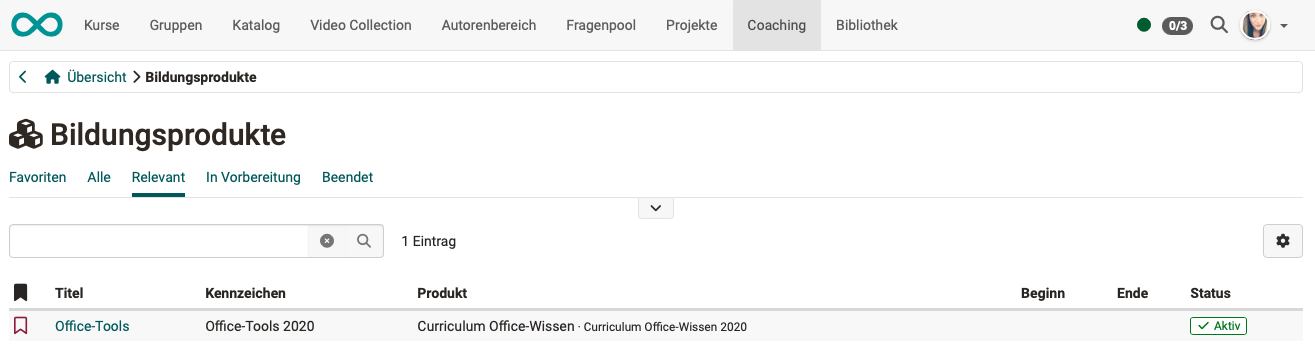
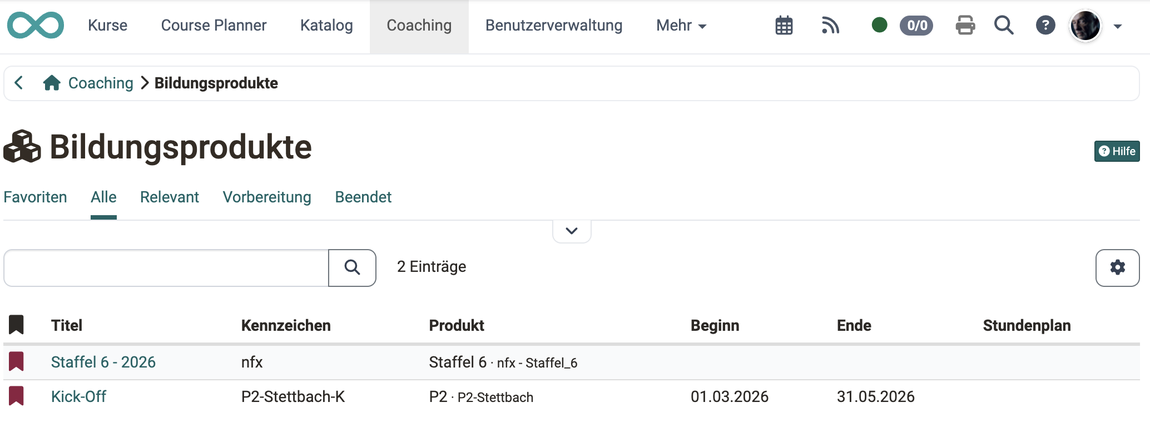
OODOC-542 (DE), Filter und Spalten der Bildungsprodukt-Listen erklärt und die Einstiege im Modul Course Planner dokumentiert.

diff --git a/sites/manual_user/docs/area_modules/Coaching_Educational_Products.de.md b/sites/manual_user/docs/area_modules/Coaching_Educational_Products.de.md
@@ -40,9 +40,46 @@ Welche Bedingungen den Zugang zum Coaching Tool insgesamt steuern, zeigt der Abs
 
 Die Liste zeigt Ihre Durchführungen. Die Spalte "Produkt" nennt zu jeder Durchführung das Bildungsprodukt, zu dem sie gehört. Wählen Sie im ersten Schritt eine Durchführung aus.
 
-![Je Zeile eine Durchführung mit Kennzeichen, zugehörigem Produkt, Beginn, Ende und Status, in der Liste Bildungsprodukte des Coaching Tools.](assets/coaching_educational_products2_v1_de.png){ class="shadow lightbox" }
+![Fünf Filter-Tabs über der Liste, je Zeile eine Durchführung mit Kennzeichen, Produkt, Beginn und Ende, in den Bildungsprodukten des Coaching Tools.](assets/coaching_educational_products2_v1_de.png){ class="shadow lightbox" }
 
-Die Filter-Tabs "Favoriten", "Alle", "Relevant", "In Vorbereitung" und "Beendet" schränken die Liste ein. Weitere Informationen zum allgemeinen Umgang mit Filtern und Filter-Tabs finden Sie unter [Mit Tabellen arbeiten](../basic_concepts/Table_Concept.de.md).
+Als Betreuer:in oder Kursbesitzer:in begegnet Ihnen dieselbe Liste an einer zweiten Stelle: unter `Coaching > Personen > "Person" > Bildungsprodukte` sehen Sie die Durchführungen einer einzelnen Person. Sie arbeitet mit derselben Filterlogik, bietet aber weniger Filter und Spalten.
+
+Dieselbe Liste erscheint ausserdem für andere Rollen, unter `Kurse > Bildungsprodukte` für Teilnehmende und unter `Benutzerverwaltung > "Person" > Bildungsprodukte` für Benutzerverwalter:innen und Administrator:innen. Die Liste arbeitet dort gleich, Filter und Spalten sind je Bereich anders gesetzt.
+
+
+### Die Liste filtern [:octicons-tag-16:{ title="ab Release 21.0 (OO-9374)" }](https://track.frentix.com/issue/OO-9374){:target="_blank"} {: #filter}
+
+Sie finden die Filter-Tabs über der Liste unter:<br>
+`Coaching > Bildungsprodukte`
+
+Jeder Tab zeigt die Durchführungen in einem bestimmten Status:
+
+* **Favoriten**<br>Nur die Durchführungen, die Sie selbst mit der Flagge markiert haben, unabhängig vom Status. Sobald mindestens eine Markierung besteht, ist dieser Tab beim Öffnen vorausgewählt.
+* **Alle**<br>Alle Durchführungen ohne Einschränkung, auch die beendeten und die abgebrochenen. Nützlich, wenn Sie eine Durchführung suchen und ihren Status nicht kennen.
+* **Relevant**<br>Die Durchführungen mit dem Status "Provisorisch", "Bestätigt" oder "Aktiv". Das ist alles, was läuft oder verbindlich geplant ist, und damit die Ansicht für den Alltag. Haben Sie keine Favoriten markiert, ist dieser Tab vorausgewählt.
+* **Vorbereitung**<br>Durchführungen, die noch nicht freigegeben sind. Diesen Tab sehen nur Betreuer:innen und Kursbesitzer:innen. Teilnehmende sehen Durchführungen in Vorbereitung nicht.
+* **Beendet**<br>Die Durchführungen mit dem Status "Beendet" und die mit dem Status "Abgebrochen", gemeinsam in einem Tab. Eine abgebrochene Durchführung verschwindet also nicht, sie wandert hierher.
+
+![Zuordnung der fünf Filter-Tabs zu den sechs Status einer Durchführung, der Tab Beendet umfasst auch abgebrochene Durchführungen.](assets/coaching_educational_products_filter_status_v1_de.svg){ class="shadow lightbox" }
+
+Mit dem Menü "Filter" grenzen Sie zusätzlich nach Produkt, Status und Durchführungszeitraum ein. Das Suchfeld über der Liste durchsucht Titel und Kennzeichen. Wie Sie Filter kombinieren und eigene Filter speichern, zeigt [Mit Tabellen arbeiten](../basic_concepts/Table_Concept.de.md).
+
+### Die Spalten der Liste [:octicons-tag-16:{ title="ab Release 21.0 (OO-9374)" }](https://track.frentix.com/issue/OO-9374){:target="_blank"} {: #columns}
+
+Welche Spalten die Liste zeigt, bestimmen Sie über das Zahnrad-Icon rechts über der Liste. Ihre Auswahl bleibt für Ihr Konto gespeichert.
+
+![Nur die Spalten ID und Status sind nicht angekreuzt, im geöffneten Dialog Spalten auswählen in den Bildungsprodukten des Coaching Tools.](assets/coaching_educational_products_columns_v1_de.png){ class="shadow lightbox" }
+
+* **Favorit**<br>Die Flagge, mit der Sie eine Durchführung markieren. Markierte Durchführungen erreichen Sie über den Tab "Favoriten".
+* **ID**<br>Die Nummer, unter der OpenOlat die Durchführung führt. Nützlich für Rückfragen an den Support. Diese Spalte ist zu Beginn ausgeblendet.
+* **Titel**<br>Der Name der Durchführung. Ein Klick darauf öffnet ihre Struktur.
+* **Kennzeichen**<br>Die Referenz aus Ihrer eigenen Systematik, zum Beispiel eine Kursnummer. Kursplaner:innen vergeben sie beim Anlegen der Durchführung.
+* **Produkt**<br>Das Bildungsprodukt, zu dem die Durchführung gehört, mit seinem Kennzeichen.
+* **Beginn** und **Ende**<br>Der geplante Zeitraum der Durchführung.
+* **Status**<br>Der Status der Durchführung, also "Vorbereitung", "Provisorisch", "Bestätigt", "Aktiv", "Abgebrochen" oder "Beendet". Diese Spalte ist zu Beginn ausgeblendet.
+* **Stundenplan**<br>Der Zugang zu den Terminen der Durchführung.
+
+In den anderen Bereichen weicht die Spaltenwahl ab. Die Benutzerverwaltung zeigt zusätzlich die Spalte "Rollen", "Meine Kurse" und die Personenansicht im Coaching Tool zeigen den Lernfortschritt.
 
 [Zum Seitenanfang ^](#educational_products)
 
@@ -52,11 +89,29 @@ Die Filter-Tabs "Favoriten", "Alle", "Relevant", "In Vorbereitung" und "Beendet"
 
 Durch Klick auf einen Namen öffnen Sie die Baumstruktur dieser Durchführung.
 
-![Button Mehr erfahren im Kopfbereich, darunter die Baumstruktur mit Elementen und Kursen, je Kurs die Links Infoseite und starten, in der geöffneten Durchführung Office-Tools.](assets/coaching_educational_products3_v1_de.png){ class="shadow lightbox" }
+![Baumstruktur der enthaltenen Kurse mit den Spalten Infoseite und Öffnen, darüber der Button Mehr erfahren, in einer geöffneten Durchführung.](assets/coaching_educational_products3_v1_de.png){ class="shadow lightbox" }
 
 Sie können nun durch Klick auf eines der Elemente im Produkt dieses **direkt öffnen** und von dort weiter navigieren. Der Link "Öffnen" startet den Kurs, der Link "Infoseite" zeigt die [Infoseite des Kurses](../learningresources/Info_page.de.md).
 
 Mit dem **Button "Mehr erfahren"** gelangen Sie zur Infoseite der Durchführung. Sie zeigt die Beschreibung, die enthaltenen Kurse und die Termine.
+
+### Die Struktur filtern [:octicons-tag-16:{ title="ab Release 21.0 (OO-9374)" }](https://track.frentix.com/issue/OO-9374){:target="_blank"} {: #structure_filter}
+
+Öffnen Sie eine Durchführung mit einem Klick auf ihren Titel:<br>
+`Coaching > Bildungsprodukte > "Titel der Durchführung"`
+
+Die Struktur zeigt die Gliederung der Durchführung, zum Beispiel Semester und Module. Hängt an einer Zeile ein Kurs, nennt ihn die Spalte "Titel der Lernressource". Auch hier stehen Filter-Tabs über der Liste: "Alle", "Aktiv", "In Vorbereitung" und "Beendet".
+
+Zwei der Tabs heissen fast gleich, beantworten aber verschiedene Fragen:
+
+* **"Vorbereitung" in der Liste der Durchführungen**<br>Was kommt auf mich zu? Sie sehen die Durchführungen, die noch nicht laufen, und können sie vorbereiten, bevor Teilnehmende dazukommen.
+* **"In Vorbereitung" in der Struktur**<br>Ist diese Durchführung startbereit? Sie sehen, welche Teile noch nicht freigegeben sind. Was hier erscheint, sehen Teilnehmende noch nicht.
+
+![Zwei Filterleisten untereinander, je mit Menüpfad: oben die Tabs der Durchführungsliste mit Vorbereitung, unten die Tabs der Struktur mit In Vorbereitung.](assets/coaching_educational_products_filter_levels_v1_de.png){ class="shadow lightbox" }
+
+Das Bild zeigt nur die beiden Filterleisten. Die vollständigen Ansichten finden Sie weiter oben: die Durchführungsliste im Abschnitt [Was zeigt die Liste?](#list), die geöffnete Durchführung im Abschnitt [Die Struktur einer Durchführung](#structure).
+
+Wo ein Teil im Tab "In Vorbereitung" landet, hängt davon ab, was in der Zeile steht: Bei einer Zeile mit Kurs zählt der Status, den die Kursbesitzer:innen im Kurs setzen. Bei einer Zeile ohne Kurs zählt der Status des Gliederungselements aus dem Course Planner. Ein Modul kann deshalb im Tab "Aktiv" stehen, während der Kurs darin noch im Tab "In Vorbereitung" erscheint.
 
 [Zum Seitenanfang ^](#educational_products)
 

diff --git a/sites/manual_user/docs/area_modules/Courses.de.md b/sites/manual_user/docs/area_modules/Courses.de.md
@@ -46,11 +46,17 @@ Sobald Sie den Kurs gefunden haben, können Sie ihn auch als Favorit markieren. 
 
 ## Bildungsprodukte
 
-Der Bereich "Bildungsprodukte" wird angezeigt, wenn der [Course Planner](../area_modules/Course_Planner.de.md) in der System-Administration aktiviert ist: `Administration > Module > Course Planner`.
+Der Bereich "Bildungsprodukte" erscheint, wenn drei Bedingungen erfüllt sind:
 
-Unter Bildungsprodukte werden dann den Benutzer:innen die Kurse und Lernressourcen angezeigt, die zu ihren Bildungsgängen (Durchführungen) gehören. Hat sich eine Benutzer:in z.B. in einen Bildungsgang eingeschrieben, der mit dem Course Planner organisiert wird, erscheinen hier alle Kurse, die diesem Bildungsgang zugeordnet sind. Ist die Benutzer:in in mehreren Durchführungen eingeschrieben, sieht sie unter Bildungsprodukte alle zugehörigen Kurse.
+* Administrator:innen haben den [Course Planner](../area_modules/Course_Planner.de.md) aktiviert: `Administration > Module > Course Planner`.
+* In diesem Modul ist die Einstellung [Produkt in "Meine Kurse"](../../manual_admin/administration/Modules_Course_Planner.de.md#product_in_my_courses) eingeschaltet.
+* Sie sind in mindestens einer Durchführung eingetragen.
 
-Ferner können hier auch nur die Favoriten, die aktiven oder die beendeten Kurse der Durchführungen angezeigt werden, oder es kann gezielt nach Kursen gesucht werden. Unter Bildungsprodukte gelangen Lernende also schnell und fokussiert zu den für ihren Bildungsgang/ihr Modul/ihre Durchführung relevanten Kursen und Lernressourcen.
+Die Liste zeigt Ihre Durchführungen, nicht einzelne Kurse. Ein Klick auf den Titel einer Durchführung öffnet deren Struktur, und erst dort sehen Sie die Kurse und Lernressourcen, die zu ihr gehören. Sind Sie in mehreren Durchführungen eingetragen, stehen sie alle in dieser Liste. Die Spalte "Produkt" nennt zu jeder Durchführung das Bildungsprodukt, zu dem sie gehört, die Spalte "Fortschritt" Ihren Lernfortschritt darin. [:octicons-tag-16:{ title="ab Release 21.0 (OO-9374)" }](https://track.frentix.com/issue/OO-9374){:target="_blank"}
+
+Die Filter-Tabs "Favoriten", "Alle", "Relevant" und "Beendet" schränken die Liste ein, das Suchfeld darüber durchsucht Titel und Kennzeichen. Was die einzelnen Tabs zeigen und welche Spalten zur Verfügung stehen, beschreibt der Abschnitt [Die Liste filtern](../area_modules/Coaching_Educational_Products.de.md#filter). Er gilt für alle Bereiche, die Bildungsprodukte auflisten.
+
+Einen Filter-Tab "Vorbereitung" gibt es hier nicht. Lernressourcen, die noch nicht veröffentlicht sind, finden Sie stattdessen im Bereich "In Vorbereitung".
 
 ## In Vorbereitung
 
@@ -67,7 +73,9 @@ Für Betreuer:innen und Kursbesitzer:innen ist der Kurs auch im Status "Vorberei
 
 [Modul Zeitabschnitte >](../../manual_admin/administration/Modules_Time_Period.de.md)<br>
 [Mit Tabellen arbeiten >](../basic_concepts/Table_Concept.de.md)<br>
-[Course Planner >](../area_modules/Course_Planner.de.md)
+[Course Planner >](../area_modules/Course_Planner.de.md)<br>
+[Modul Course Planner >](../../manual_admin/administration/Modules_Course_Planner.de.md)<br>
+[Coaching: Bildungsprodukte >](../area_modules/Coaching_Educational_Products.de.md)
 
 **youtube**<br>
 [Wo finde ich meine Kurse?](<https://www.youtube.com/embed/2sN32vLD9UY>)

diff --git a/sites/manual_user/docs/area_modules/Coaching_People.de.md b/sites/manual_user/docs/area_modules/Coaching_People.de.md
@@ -183,6 +183,15 @@ Möchten Sie als Linienvorgesetzte:r oder Ausbildungsverantwortliche:r bestimmte
 
 ![Rechte der Rolle Linienvorgesetzte:r als Checkbox-Liste, von Kurse und Produkte anzeigen bis Administrative Eigenschaften anzeigen, im Tab Linienvorgesetzte:r einer Organisationseinheit.](assets/coaching_people_line_manager5_v1_de.png){ class="shadow lightbox" }
 
+### Die Bildungsprodukte einer Person [:octicons-tag-16:{ title="ab Release 21.0 (OO-9374)" }](https://track.frentix.com/issue/OO-9374){:target="_blank"} {: #linemanager_educationmanager_products}
+
+Öffnen Sie eine Person und wechseln Sie zu "Bildungsprodukte". Die Liste zeigt die Durchführungen dieser Person. Sie folgt derselben Logik wie die Liste unter [Coaching > Bildungsprodukte](../area_modules/Coaching_Educational_Products.de.md#filter), bietet aber weniger Filter und Spalten:
+
+* Als Filter-Tabs stehen "Alle", "Relevant" und "Beendet" zur Verfügung. "Relevant" ist vorausgewählt.
+* Die Tabs "Favoriten" und "Vorbereitung" gibt es hier nicht. Durchführungen in Vorbereitung sehen nur Betreuer:innen und Kursbesitzer:innen.
+* Eine Spalte "Status" gibt es nicht. Abgebrochene Durchführungen erscheinen im Tab "Beendet", lassen sich dort aber nicht einzeln herausfiltern.
+* Die Spalten "Fortschritt" und "Stundenplan" erscheinen nur, wenn Administrator:innen Ihrer Rolle die entsprechenden Rechte erteilt haben.
+
 [Zum Seitenanfang ^](#people)
 
 ---
@@ -195,11 +204,11 @@ Möchten Sie als Linienvorgesetzte:r oder Ausbildungsverantwortliche:r bestimmte
 [Modul Organisationen >](../../manual_admin/administration/Modules_Organisations.de.md)<br>
 [Eigene Rollen und Beziehungen definieren >](../../manual_user/basic_concepts/Assign_Roles.de.md)<br>
 [Coaching: Kurse >](../../manual_user/area_modules/Coaching_Courses.de.md)<br>
-[Course Planner: Durchführungen >](../../manual_user/area_modules/Course_Planner_Implementations.de.md)
+[Course Planner: Durchführungen >](../../manual_user/area_modules/Course_Planner_Implementations.de.md)<br>
+[Coaching: Bildungsprodukte >](../area_modules/Coaching_Educational_Products.de.md)
 
 **Weiterführend**<br>
 [Coaching: Personensuche >](../../manual_user/area_modules/Coaching_User_Search.de.md)<br>
-[Coaching: Bildungsprodukte >](../area_modules/Coaching_Educational_Products.de.md)<br>
 [Coaching: Termine / Absenzen >](../area_modules/Coaching_Events_Absences.de.md)<br>
 [Coaching: Bewertungsaufträge >](../area_modules/Coaching_Assessment_Orders.de.md)<br>
 [Coaching: Reports >](../../manual_user/area_modules/Coaching_Reports.de.md)<br>

diff --git a/sites/manual_admin/docs/administration/Modules_Course_Planner.de.md b/sites/manual_admin/docs/administration/Modules_Course_Planner.de.md
@@ -11,7 +11,19 @@ Das Modul Course Planner ist optional an Stelle des Moduls Curriculum in OpenOla
 
 ### Tab Course Planner {: #tab_course_planner}
 
-![Schalter zum Einschalten des Course Planners, Produkt in «Meine Kurse» und Optionsbaum «Benutzer:innen-Übersicht», im Tab Course Planner der System-Administration](assets/modules_course_planner_config_v1_de.png){ class="shadow lightbox" }
+![Schalter zum Einschalten des Course Planners, Produkt in "Meine Kurse" und Optionsbaum Benutzer:innen-Übersicht, im Tab Course Planner der System-Administration](assets/modules_course_planner_config_v1_de.png){ class="shadow lightbox" }
+
+Zwei Schalter in diesem Tab bestimmen, wo Produkte und Durchführungen erscheinen: «Produkt in "Meine Kurse"» und die «Benutzer:innen-Übersicht». Fünf Einstiege öffnen dieselbe Liste:
+
+* `Kurse > Bildungsprodukte` für Teilnehmer:innen
+* `Coaching > Bildungsprodukte` für Betreuer:innen und Kursbesitzer:innen
+* `Coaching > Personen > "Person" > Bildungsprodukte` für Betreuer:innen und Kursbesitzer:innen
+* `Coaching > Personen > "Person" > Bildungsprodukte` für Linienvorgesetzte und Ausbildungsverantwortliche
+* `Benutzerverwaltung > "Person" > Bildungsprodukte` für Benutzerverwalter:innen und Administrator:innen
+
+Der Schalter «Produkt in "Meine Kurse"» schaltet den ersten Einstieg ein oder aus. Die «Benutzer:innen-Übersicht» bestimmt, was Kursplaner:innen, Ausbildungsverantwortliche und Linienvorgesetzte im vierten Einstieg sehen.
+
+![Fünf Einstiege führen auf dieselbe Liste der Durchführungen, von dort öffnet ein Klick auf den Titel die Struktur mit den enthaltenen Kursen.](assets/modules_course_planner_entry_points_v1_de.svg){ class="shadow lightbox" }
 
 #### Course Planner einschalten {: #enable_course_planner }
 

diff --git a/sites/manual_admin/docs/usermanagement/Configure_User.de.md b/sites/manual_admin/docs/usermanagement/Configure_User.de.md
@@ -204,11 +204,13 @@ Hier können dem/der Benutzer:in Kompetenzbereiche hinzugefügt werden. Sie sind
 
 ### Bildungsprodukte [:octicons-tag-16:{ title="ab Release 20.3.0 (OO-9288)" }](https://track.frentix.com/issue/OO-9288)
 
-Hier finden Sie dieselbe hierarchische Übersicht über die Bildungsprodukte, Durchführungen und Kurse des/der Benutzer:in wie im Coaching-Tool aus Sicht Linienvorgesetzte:r bzw. Ausbildungsverantwortliche:r.
+Hier finden Sie die Durchführungen des/der Benutzer:in. Die Liste zeigt alle Durchführungen der Person, unabhängig davon, welche Rolle sie darin hat [:octicons-tag-16:{ title="ab Release 21.0 (OO-9374)" }](https://track.frentix.com/issue/OO-9374){:target="_blank"}.
 
-!!! note "Kontrollaufgaben als Linienvorgesetzte / Ausbildungsverantwortliche"
-    Details zu Filtern, Status und Darstellung dieser Ansicht.<br>
-    [Kontrollaufgaben als Linienvorgesetzte / Ausbildungsverantwortliche](../../manual_user/area_modules/Coaching_People.de.md#linemanager_educationmanager_observe)
+Die Liste folgt derselben Filterlogik wie im Coaching Tool, unterscheidet sich aber in zwei Spalten: die Spalte "Rollen" weist je Durchführung aus, in welcher Rolle die Person beteiligt ist, dafür fehlt die Spalte "Fortschritt". Ein Klick auf den Titel einer Durchführung öffnet deren Struktur mit den enthaltenen Kursen.
+
+!!! note "Filter und Spalten dieser Liste"
+    Welche Filter-Tabs die Liste bietet und was sie zeigen, beschreibt das Benutzerhandbuch.<br>
+    [Die Bildungsprodukte einer Person](../../manual_user/area_modules/Coaching_People.de.md#linemanager_educationmanager_products)
 
 [zum Seitenanfang ^](#user_configuration)
 
